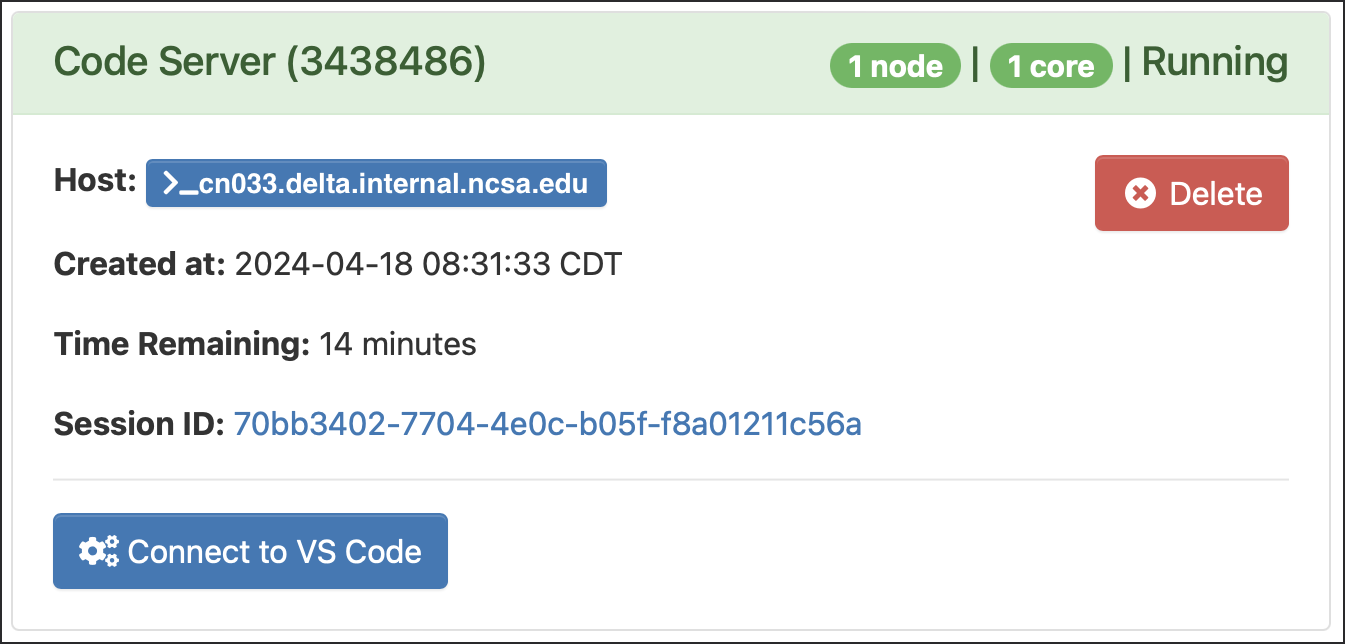
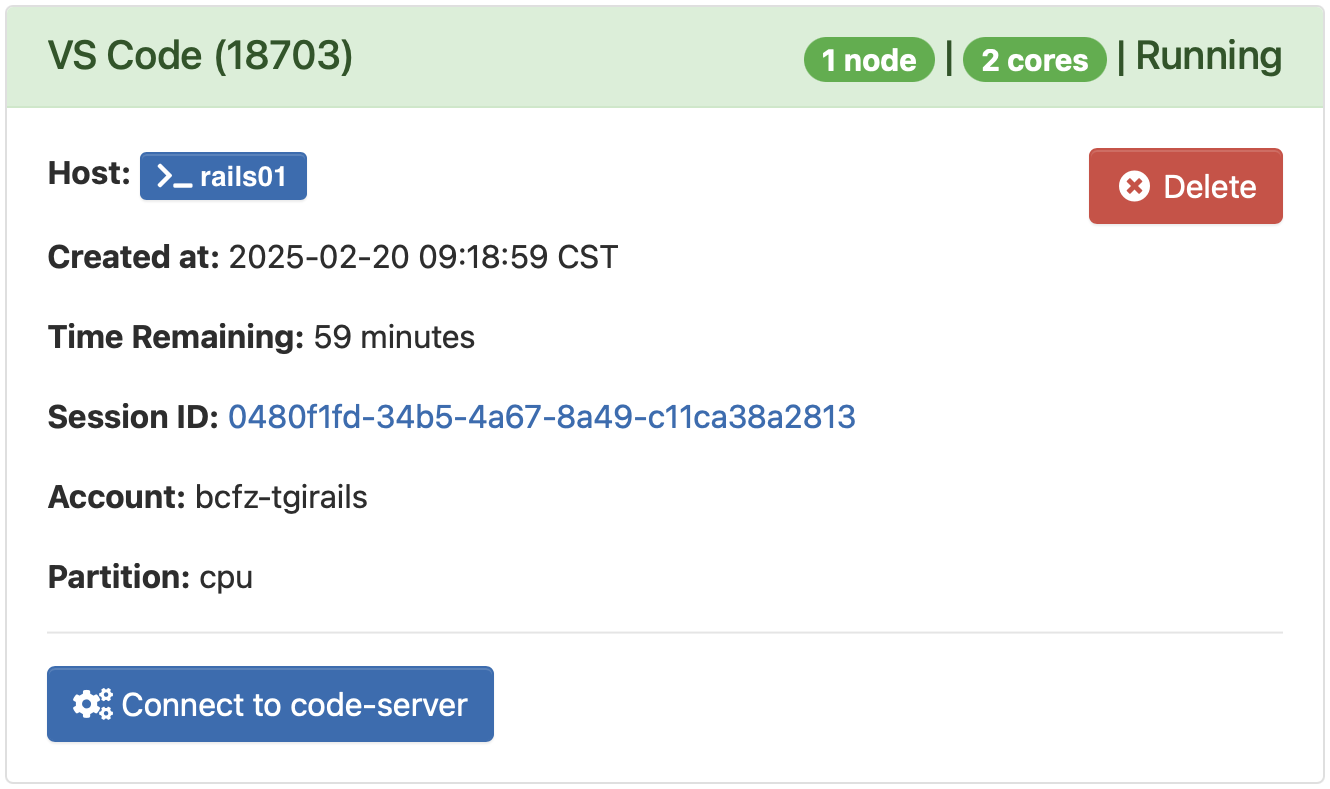
Updated images to rails interface

Changed region(s): [[0.0, 0.0, 1.0, 1.0]]

diff --git a/docs/source/ondemand/jupyterLab.rst b/docs/source/ondemand/jupyterLab.rst
@@ -26,13 +26,13 @@ How to Start an OOD JupyterLab Session
 
 #. After you click **Launch**, you will be taken to **My Interactive Sessions** where you can view the status of your session.
 
-   .. figure:: images/jupyter-starting.png
+   .. figure:: images/jupyterLab-starting.png
       :alt: Open OnDemand My Interactive Sessions screen showing the Jupyter Lab session status: "Your session is currently starting...Please be patient as this process can take a few minutes."
       :width: 500
 
 #. Once your session has started, click **Connect to Jupyter** to launch your JupyterLab environment. Note, this can take up to few minutes depending on availability.
 
-   .. figure:: images/jupyter-connect.png
+   .. figure:: images/jupyterLab-connect.png
       :alt: Open OnDemand My Interactive Sessions screen showing the Jupyter Lab session with the Connect to Jupyter button.
       :width: 500
 

diff --git a/docs/source/accessing/index.rst b/docs/source/accessing/index.rst
@@ -74,7 +74,7 @@ login nodes!
     for information on submitting jobs to the compute nodes.
 
 
-**Connecting with Open OnDemand**
+Connecting with Open OnDemand
 -----------------------------------
 
 .. Warning::
@@ -102,7 +102,7 @@ Once you have authenticated with DUO, you will be taken to the RAILS OnDemand da
 can access the various apps and tools available on TGI RAILS.
 
 
-**Troubleshooting and Connection Help** 
+Troubleshooting and Connection Help
 --------------------------------------------
 
 **Connecting to a specific node**

diff --git a/docs/source/ondemand/vscode.rst b/docs/source/ondemand/vscode.rst
@@ -26,7 +26,7 @@ How to Start an OOD VS Code Session
 
 #. After you click **Launch**, you will be taken to **My Interactive Sessions** where you can view the status of your session.
 
-   .. figure:: images/code-server-starting.png
+   .. figure:: images/vs-code-starting.png
       :alt: Open OnDemand My Interactive Sessions screen showing the Code Server session status: "Your session is currently starting...Please be patient as this process can take a few minutes."
       :width: 500
 
